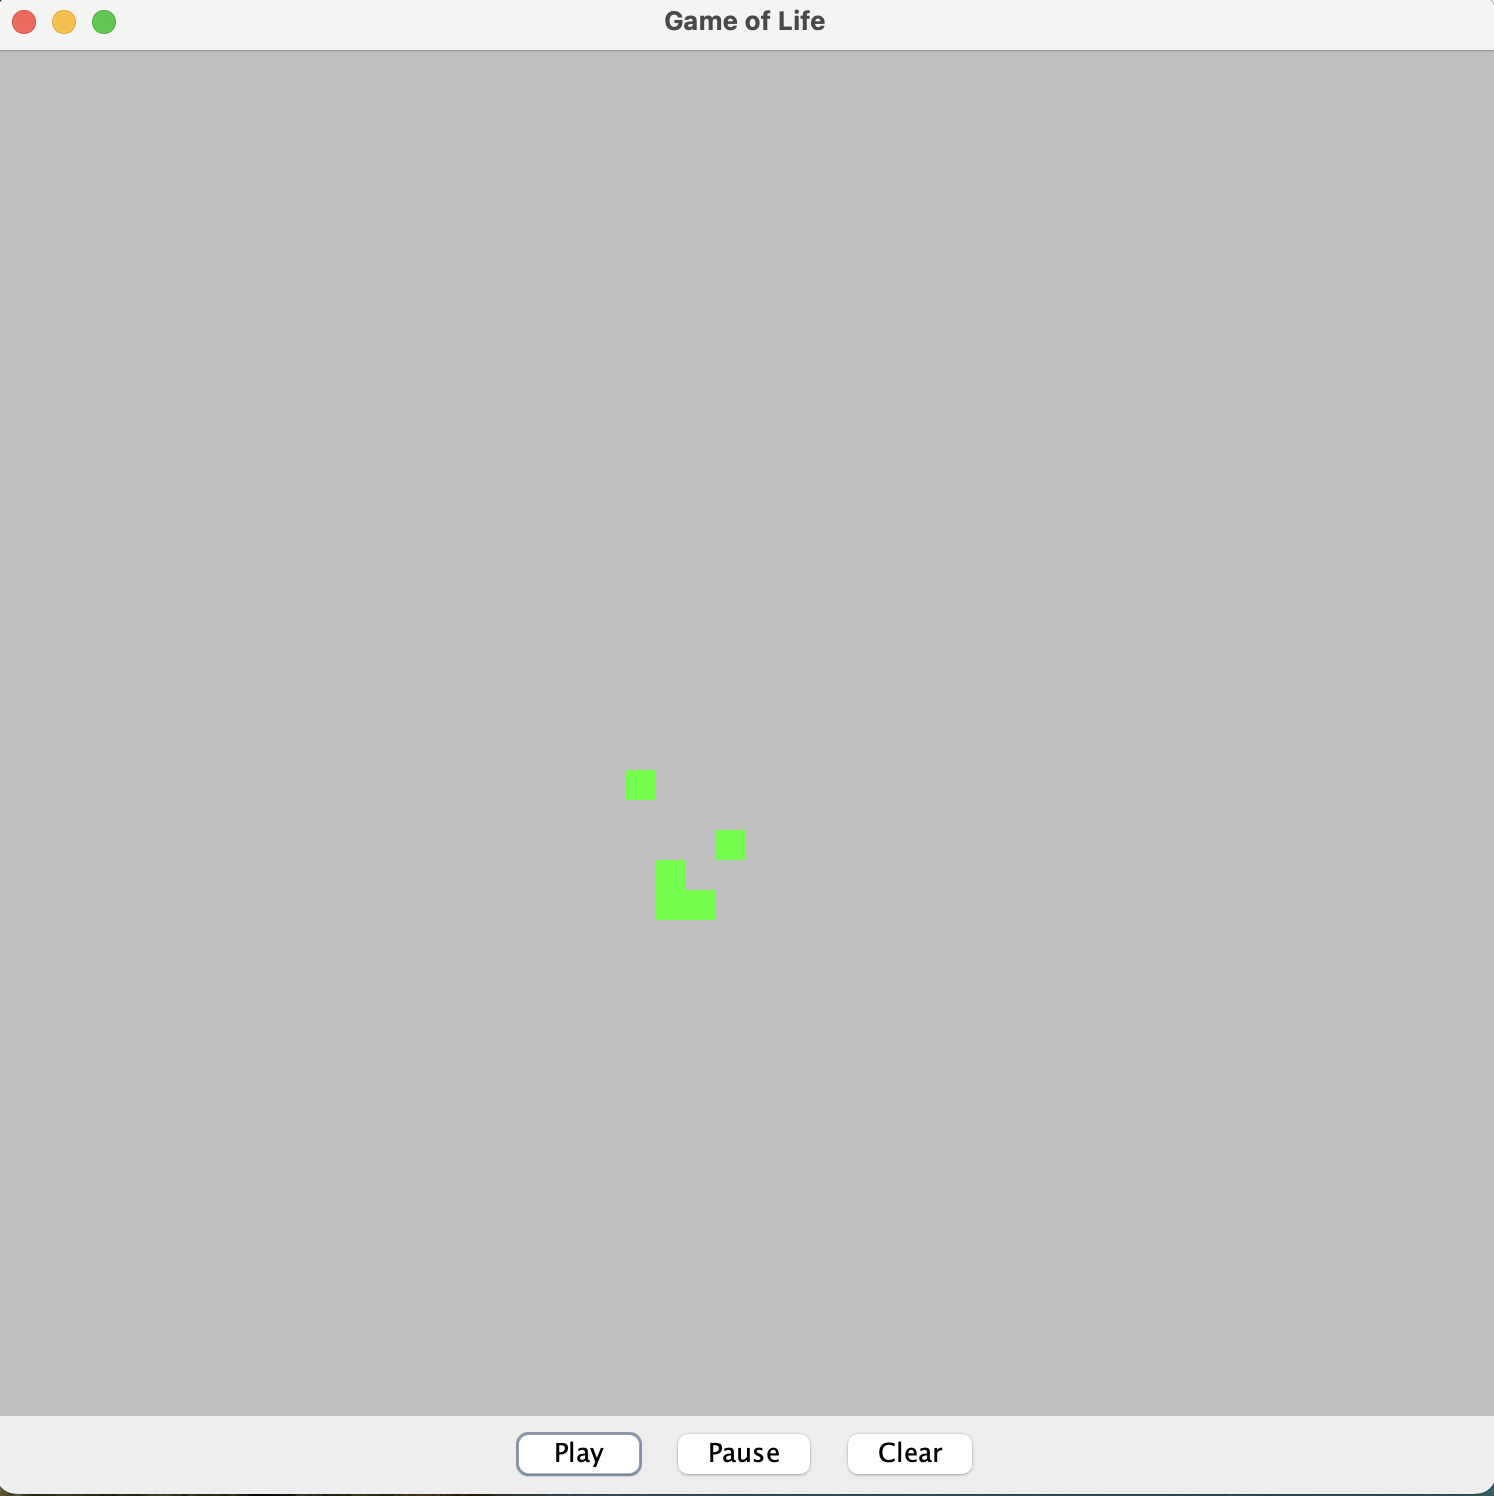
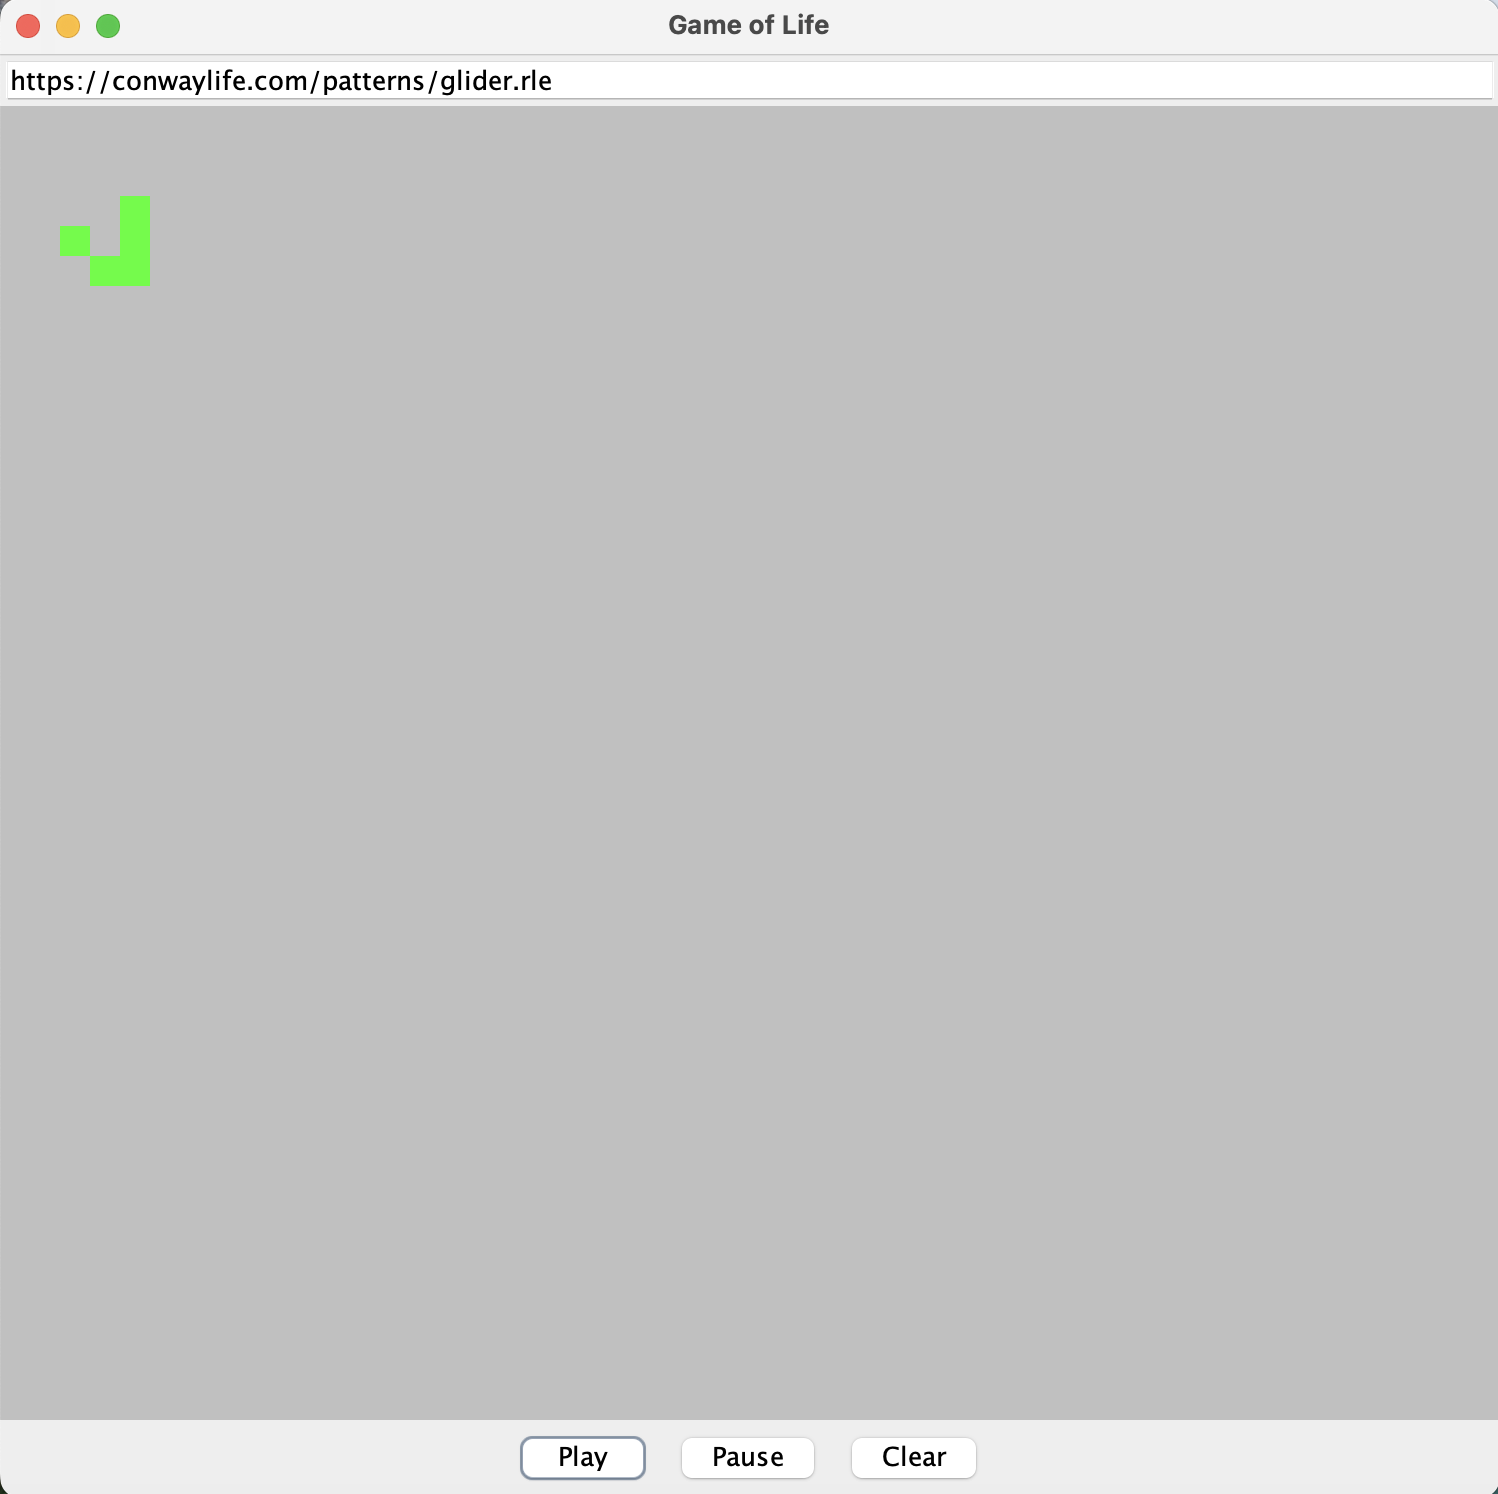
added RLE reader

diff --git a/src/main/java/freiman/conway/Grid.java b/src/main/java/freiman/conway/Grid.java
@@ -1,5 +1,10 @@
 package freiman.conway;
 
+import java.io.BufferedReader;
+import java.io.FileReader;
+import java.io.IOException;
+import java.io.InputStreamReader;
+import java.net.URL;
 import java.util.Random;
 
 public class Grid {
@@ -70,9 +75,71 @@ public class Grid {
     /**
      * Clears the field
      */
-
     public void clear() {
         field = new int [getHeight()][getWidth()];
+    }
+
+    /**
+     * @param filePath
+     * reads from an RLE file
+     */
+    public void readRLE(String filePath) {
+        StringBuilder rle = new StringBuilder();
+        String line;
+
+        try {
+            URL url = new URL(filePath);
+            BufferedReader reader = new BufferedReader(new InputStreamReader(url.openStream()));
+            while ((line = reader.readLine()) != null) {
+                if (!line.startsWith("#") && !line.startsWith("x")) {
+                    rle.append(line);
+                }
+            }
+            reader.close();
+        } catch (Exception e) {
+            e.printStackTrace();
+        }
+        rleToGrid(rle.toString());
+    }
+
+    public void rleToGrid(String rle) {
+        int row = 0;
+        int col = 0;
+        int count = 0;
+
+        for (int i = 0; i < rle.length(); i++) {
+            char c = rle.charAt(i);
+            if (Character.isDigit(c)) {
+                count = Integer.parseInt(String.valueOf(c));;
+            } else {
+                if (count == 0) {
+                    count = 1;
+                }
+                switch (c) {
+                    case 'b':
+                        col += count;
+                        break;
+                    case 'o':
+                        for (int j = 0; j < count; j++) {
+                            if (row < getHeight() && col < getWidth()) {
+                                field[row][col] = 1;
+                                col++;
+                            }
+                        }
+                        break;
+                    case '$':
+                        row += count;
+                        col = 0;
+                        break;
+                    case '!':
+                        return;
+                    default:
+                        System.out.println("Invalid character: " + c);
+                        break;
+                }
+                count = 0;
+            }
+        }
     }
 
     public String toString() {

diff --git a/src/main/java/freiman/conway/GridFrame.java b/src/main/java/freiman/conway/GridFrame.java
@@ -4,6 +4,8 @@ import javax.swing.*;
 import java.awt.*;
 import java.awt.event.ActionEvent;
 import java.awt.event.ActionListener;
+import java.awt.event.KeyAdapter;
+import java.awt.event.KeyEvent;
 
 public class GridFrame extends JFrame {
     private static final int gridSpacing = 15;
@@ -52,8 +54,24 @@ public class GridFrame extends JFrame {
         buttonPanel.add(playButton);
         buttonPanel.add(pauseButton);
         buttonPanel.add(clearButton);
-
         add(buttonPanel, BorderLayout.SOUTH);
+
+
+        JTextField rleField = new JTextField();
+        add(rleField, BorderLayout.NORTH);
+        rleField.addKeyListener(new KeyAdapter() {
+            @Override
+            public void keyPressed(KeyEvent e) {
+                if (e.getKeyCode() == KeyEvent.VK_ENTER) {
+                    String rleInput = rleField.getText();
+                    grid.clear();
+                    grid.readRLE(rleInput);
+                    repaint();
+                }
+            }
+        });
+
+
     }
 
 }

diff --git a/src/test/java/freiman/conway/GridTest.java b/src/test/java/freiman/conway/GridTest.java
@@ -47,4 +47,22 @@ public class GridTest {
         //then
         assertEquals("000\n000\n000\n", grid.toString());
     }
+
+    @Test
+    public void rleReader() {
+        //given
+        Grid grid = new Grid(3, 3);
+        grid.put(1,0);
+        grid.put(2, 1);
+        grid.put(0, 2);
+        grid.put(1, 2);
+        grid.put(2, 2);
+
+        //when
+        Grid rleGrid = new Grid(3, 3);
+        rleGrid.readRLE("https://conwaylife.com/patterns/glider.rle");
+
+        //then
+        assertEquals(grid.toString(), rleGrid.toString());
+    }
 }

diff --git a/README.md b/README.md
@@ -1,6 +1,6 @@
 # Conway's Game of Life Project
 
-This project uses an interactive GUI to mimic Conway's Game of Life.
+This project uses an interactive GUI to mimic Conway's Game of Life. It also feaures an RLE translator, so if the user submits an RLE and hits enter, the field clears and the RLE is loaded into the field.
 
 
 ![GameOfLife](Screenshots/GameOfLife.png)
